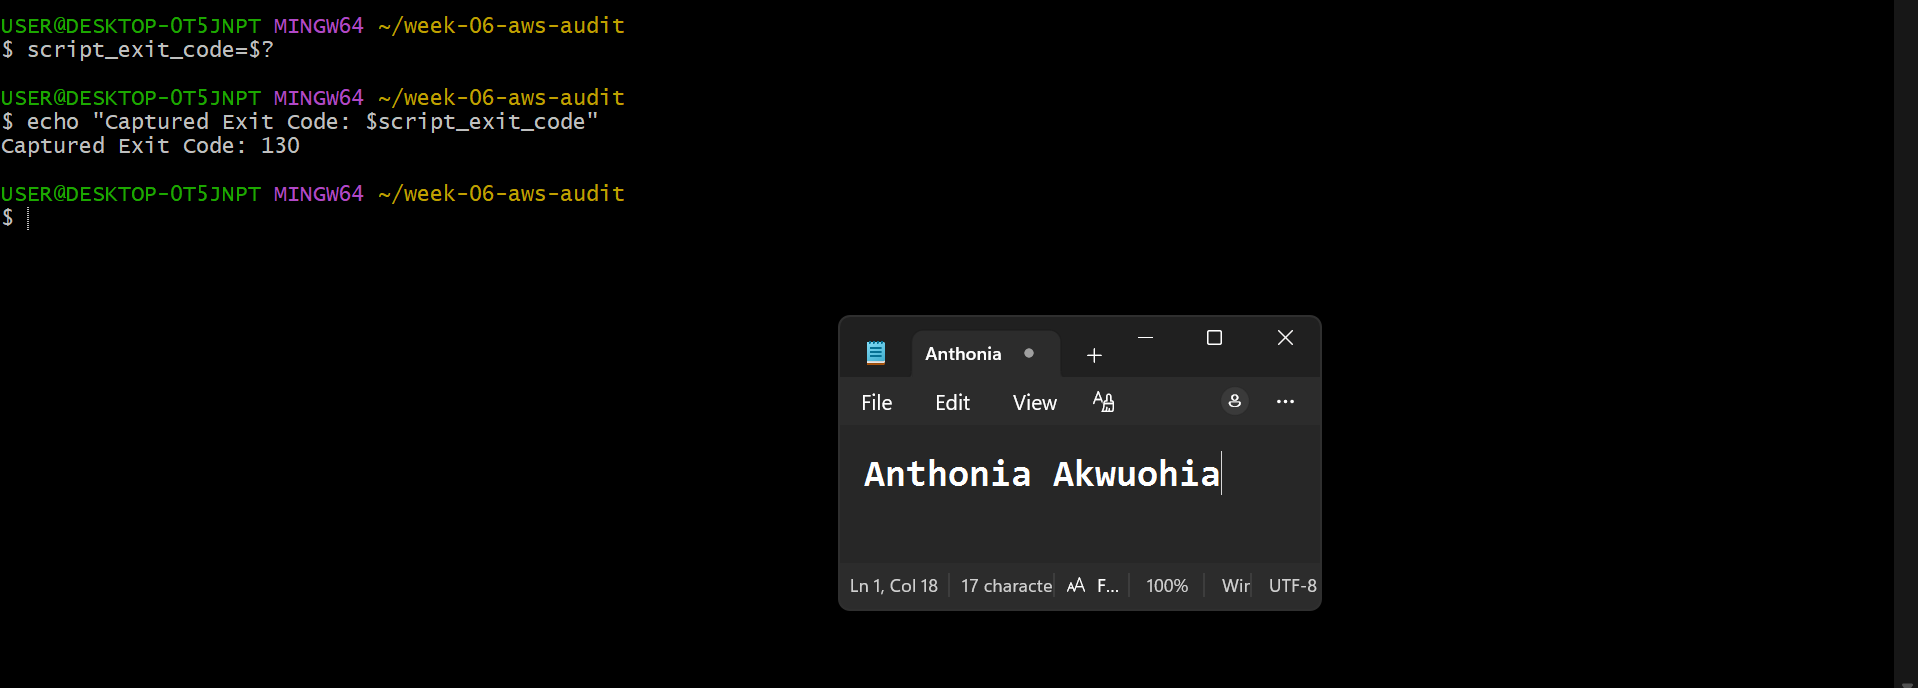
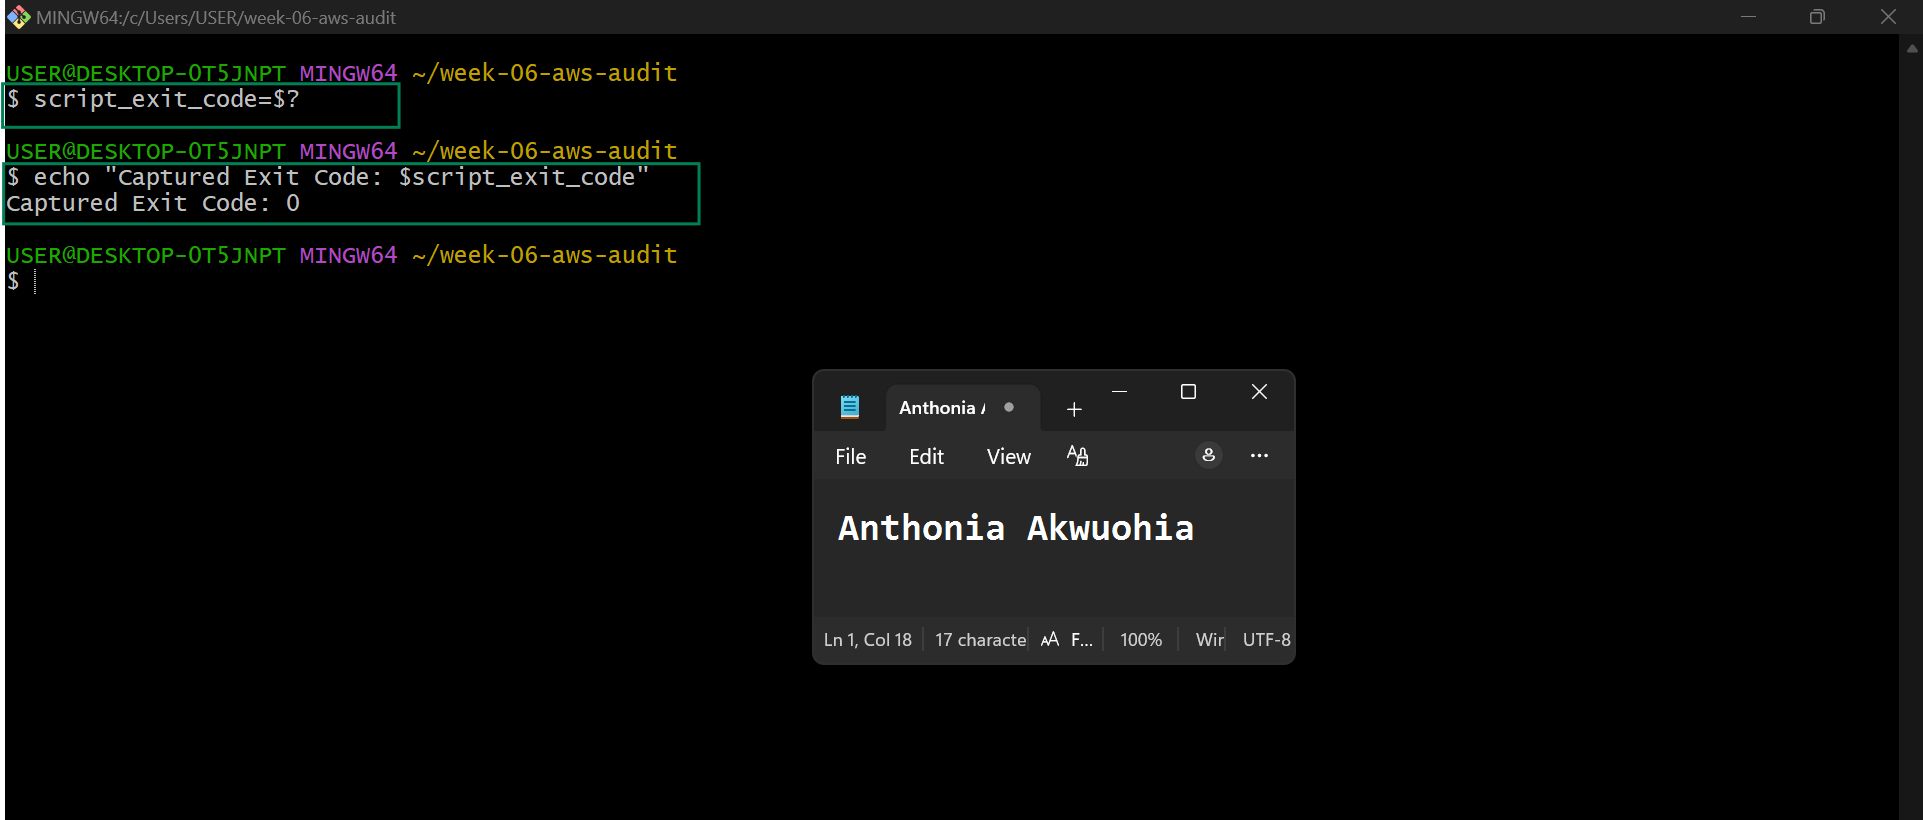
Week 06 Aws cloud

Changed region(s): [[0.0, 0.0, 1.0, 0.3663], [0.3999, 0.4273, 0.7075, 0.8852], [0.9844, 0.9767, 1.0, 1.0]]

diff --git a/week-06-aws-cloud/assignment-07-ai-assisted-aws-security-and-cost-audit.md b/week-06-aws-cloud/assignment-07-ai-assisted-aws-security-and-cost-audit.md
@@ -273,13 +273,13 @@ Pick one real finding from your baseline report (or deliberately open a security
 
 #### Screenshot 12 — Output of the `revoke-security-group-ingress` and `authorize-security-group-ingress` commands you ran yourself
 
-Add your screenshot here.
+![Screenshot](screenshots/Assignment7.Task7.ss12.png)
 
 ---
 
 #### Screenshot 13 — Rerun of `./scripts/aws-audit.sh` showing the finding is now PASS
 
-
+![Screenshot](screenshots/Assignment7Task7.ss13.png)
 
 ---
 
@@ -287,7 +287,7 @@ Add your screenshot here.
 
 **1. Which exact finding did you fix, and what command did you run?**
 
-I fixed the SSH security-group exposure finding. I first created a temporary SSH ingress rule allowing port 22 from 0.0.0.0/0 to demonstrate the security risk. I then revoked that rule using aws ec2 revoke-security-group-ingress and authorized SSH access again using aws ec2 authorize-security-group-ingress, restricted to my own public IP address with /32. After the change, I reran the audit and the SSH check returned PASS.
+I identified and remediated the S3 Public Access Block finding. The initial audit showed that BlockPublicAcls, IgnorePublicAcls, BlockPublicPolicy, and RestrictPublicBuckets were all set to false. I verified the configuration using aws s3api get-public-access-block and then enabled all four S3 Block Public Access settings using aws s3api put-public-access-block. After the remediation, I reran the audit and the S3 security check returned PASS. The final audit reported 4 PASS, 1 WARN, and 0 FAIL.
 
 **2. Why did you scope the new rule to your own IP address instead of leaving it open to `0.0.0.0/0`?**
 
